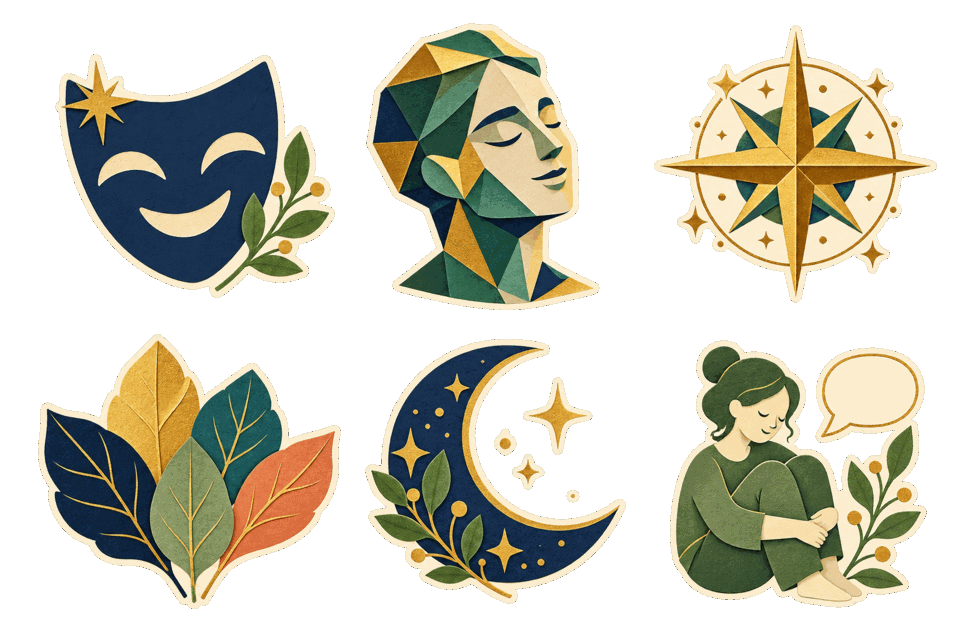
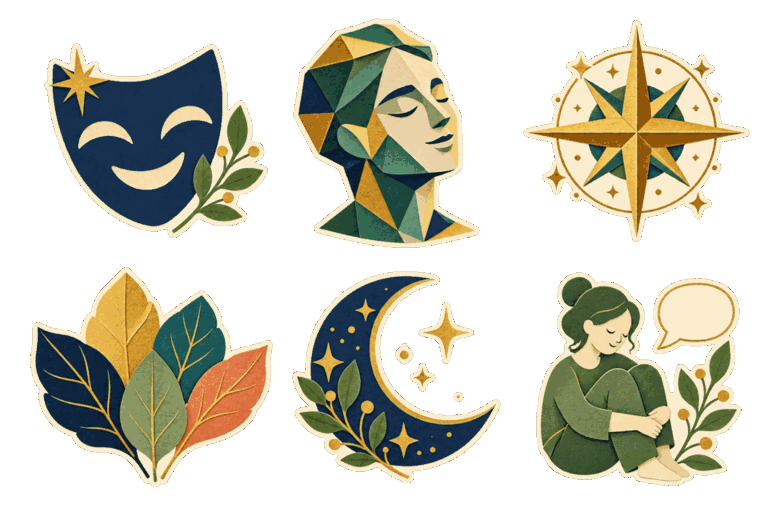
fix: remove design references from mini program

diff --git a/packages/reports/index.js b/packages/reports/index.js
@@ -1,9 +1,9 @@
 const { report, EVENTS } = require('../../utils/track.js');
 const archive = require('../../utils/archive.js');
 const { resolveReport, SCORING_VERSION } = require('../../utils/scoring.js');
-const { buildDeepReport, basicDimensions } = require('../../utils/deep-report.js');
-const { rewardedReport: REWARDED_AD_UNIT_ID } = require('../../data/ads.js');
-const premiumAccess = require('../../utils/premium-access.js');
+const { buildDeepReport, basicDimensions } = require('./deep-report.js');
+const { rewardedReport: REWARDED_AD_UNIT_ID } = require('./ads.js');
+const premiumAccess = require('./premium-access.js');
 
 function formatTime(value) {
   const date = new Date(value);

diff --git a/packages/reports/premium-access.js b/packages/reports/premium-access.js
@@ -1,4 +1,4 @@
-const archive = require('./archive.js');
+const archive = require('../../utils/archive.js');
 
 // A small completion receipt can still fit when rewriting the full archive fails.
 // Memory keeps the completed view available within this app session if storage is full.

diff --git a/README.md b/README.md
@@ -36,8 +36,8 @@ node -e "const c=require('/tmp/treehub-compiler/node_modules/miniprogram-compile
 
 - `utils/archive.js`：单键 `personalityTreeArchive.v1` 保存版本化档案、设备种子、规范题号答案、分数、结果、日期与树形快照。写入失败保留页面答案；格式异常停止写入，不自动重置。旧版 `testResult` 仅迁移一次，并保留原键；旧版错误空分数不展示为新版有效报告。
 - `utils/scoring.js`：评分版本 `2`，统一处理数字题号与 `qN`、九型单票计分、IE 外向计数、大五反向题及五维结果。
-- `utils/deep-report.js`：按六套测试生成不同的深度维度与解读；`data/ads.js` 保存报告激励视频广告位 ID。
-- `utils/premium-access.js`：记录已完成广告的待保存凭据，按测评记录补存权益；页面退出后停止广告加载与显示重试。
+- `packages/reports/deep-report.js`：按六套测试生成不同的深度维度与解读；同目录的 `ads.js` 保存报告激励视频广告位 ID。
+- `packages/reports/premium-access.js`：记录已完成广告的待保存凭据，按测评记录补存权益；页面退出后停止广告加载与显示重试。
 - `data/trees.js`：树种寓意、解读文案和成长阶段；`utils/personality-tree.js`：匹配规则及可追溯依据。
 - `data/exploration.js`：大厅分类、卡片标题、探索引导。新增测试仍需在 `data/tests/index.js` 注册，并检查评分、版本和报告适配。
 - `assets/stickers.png`：六套测试的透明纸贴插画，未探索时置灰并显示解锁标记。
